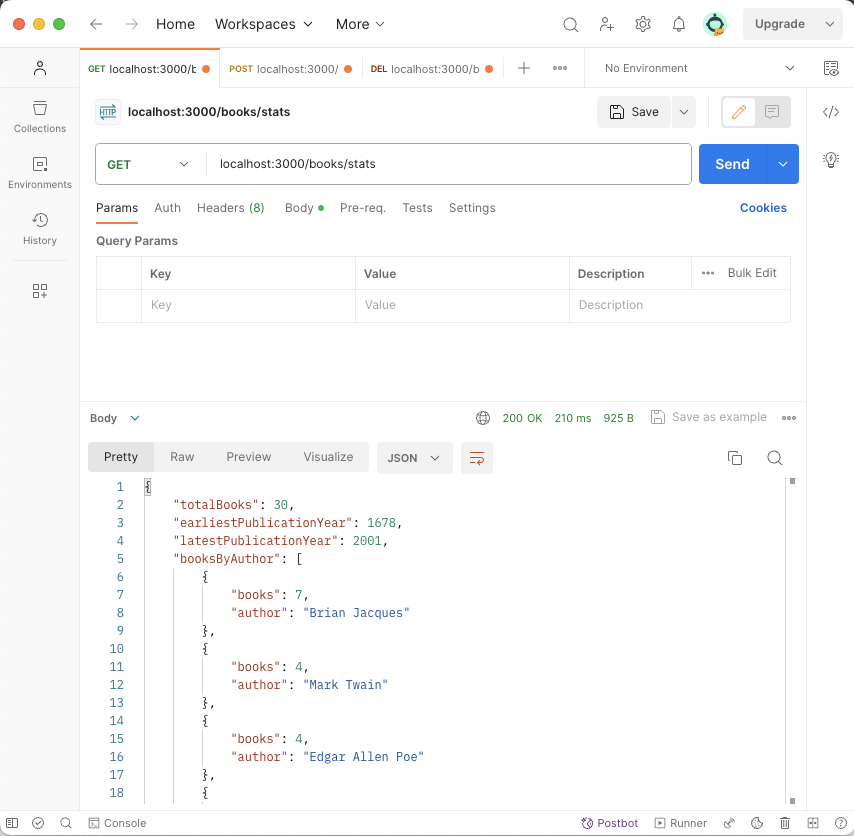
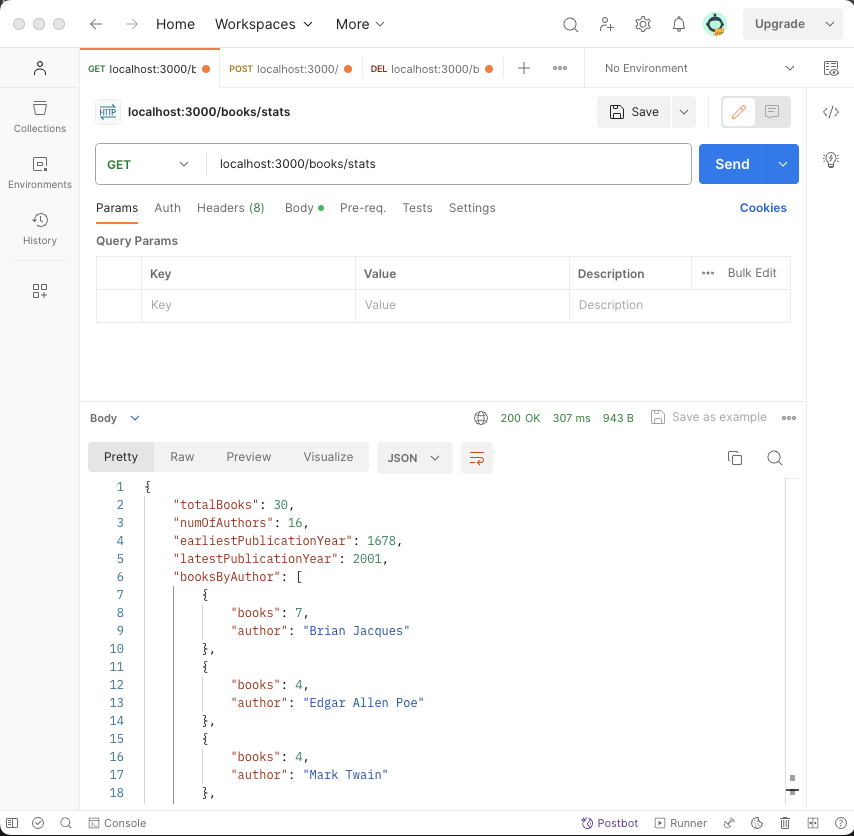
feat(controller): add number of authors to stats and update stats pic

diff --git a/server/controllers/bookController.js b/server/controllers/bookController.js
@@ -174,6 +174,10 @@ bookController.getStats = async (req, res, next) => {
 		//get the total number of books
 		const totalBooks = await Book.countDocuments();
 		stats.totalBooks = totalBooks;
+		
+		//get the total number of authors
+		const numOfAuthors = await Book.distinct('author');
+		stats.numOfAuthors = numOfAuthors.length;
 
 		//get the earliest publication year of all books
 		const earliestPublicationYear = await Book.aggregate([
@@ -187,7 +191,7 @@ bookController.getStats = async (req, res, next) => {
 
 		//add functionality to aggregate and return an array with the number of books for each author, sorted in descending order
 		const booksByAuthor = await Book.aggregate([
-			{ $group: { _id: '$author', books: { $sum: 1 } } },
+			{ $group: { _id: '$author', books: { $sum: 1 }, authors: { $sum: 1} } },
 			{ $sort: { books: -1 } },
 			{ $project: { author: '$_id', books: 1, _id: 0 } }
 		]);
